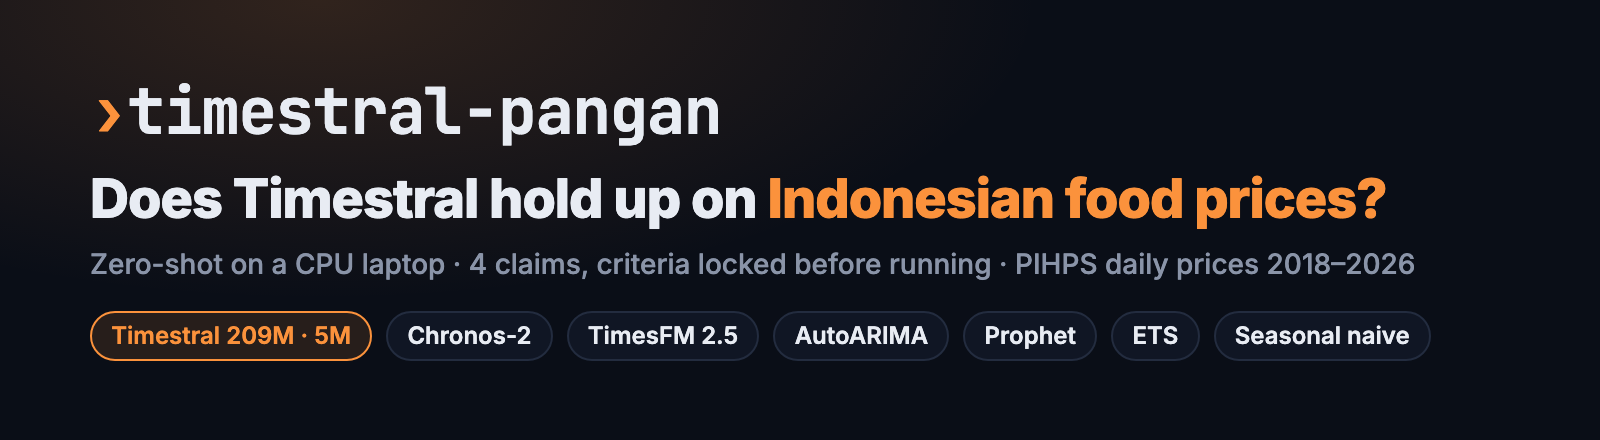
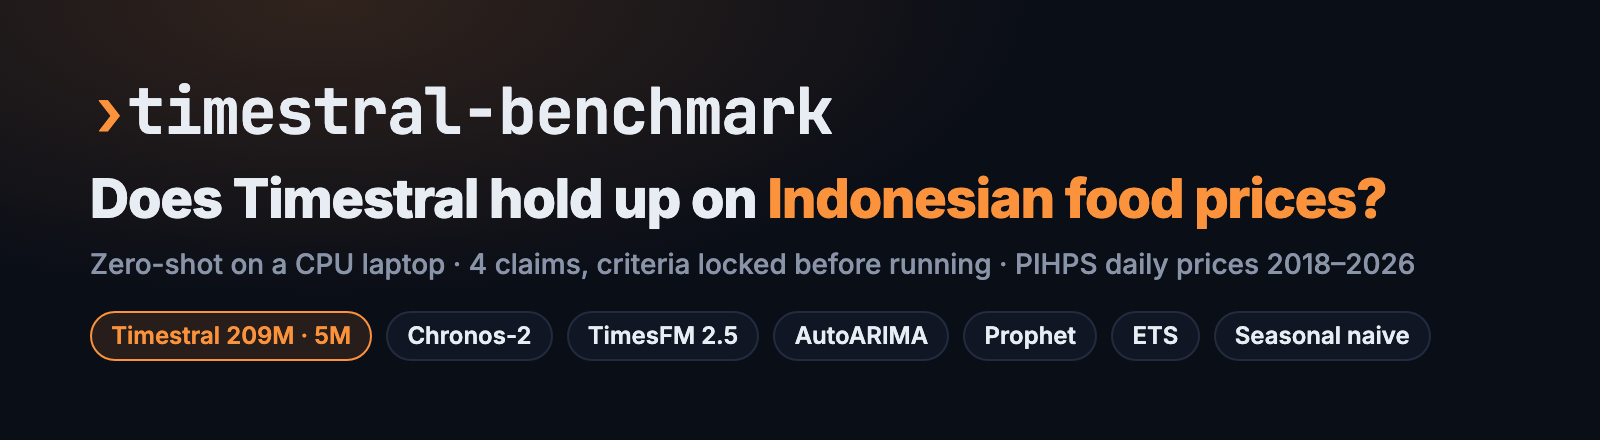
docs: rename project to timestral-benchmark

Changed region(s): [[0.3438, 0.2068, 0.5312, 0.325], [0.3125, 0.2068, 0.3438, 0.2659], [0.3125, 0.2955, 0.3438, 0.325]]

diff --git a/docs/assets/remotion/src/Stills.tsx b/docs/assets/remotion/src/Stills.tsx
@@ -23,7 +23,7 @@ const MODELS = ['Timestral 209M · 5M', 'Chronos-2', 'TimesFM 2.5', 'AutoARIMA',
 const Wordmark: React.FC<{size: number; mode: Mode}> = ({size, mode}) => (
   <div style={{fontFamily: mono, fontWeight: 700, fontSize: size, letterSpacing: -size * 0.02, lineHeight: 1}}>
     <span style={{color: T[mode].accent}}>›</span>
-    <span style={{color: T[mode].text}}>timestral-pangan</span>
+    <span style={{color: T[mode].text}}>timestral-benchmark</span>
   </div>
 );
 

diff --git a/README.md b/README.md
@@ -2,7 +2,7 @@
 
 <picture>
   <source media="(prefers-color-scheme: dark)" srcset="docs/assets/banner-dark.png">
-  <img src="docs/assets/banner-light.png" width="100%" alt="timestral-pangan: does Timestral hold up on Indonesian food prices? Timestral compared with Chronos-2, TimesFM 2.5, AutoARIMA, Prophet, ETS and seasonal naive">
+  <img src="docs/assets/banner-light.png" width="100%" alt="timestral-benchmark: does Timestral hold up on Indonesian food prices? Timestral compared with Chronos-2, TimesFM 2.5, AutoARIMA, Prophet, ETS and seasonal naive">
 </picture>
 
 ### An honest, reproducible benchmark of Timestral against other forecasting approaches on Indonesian daily food prices
@@ -38,7 +38,7 @@ This repository answers that for four staple commodities, without taking sides:
 **1. Install**
 
 ```bash
-git clone https://github.com/anggaralabshq/timestral-pangan.git && cd timestral-pangan
+git clone https://github.com/anggaralabshq/timestral-benchmark.git && cd timestral-benchmark
 uv sync
 ```
 

diff --git a/docs/superpowers/specs/2026-11-09-timestral-pangan-design.md b/docs/superpowers/specs/2026-11-09-timestral-pangan-design.md
@@ -125,7 +125,7 @@ Definisi bersama:
 - Hardware: MacBook **Apple M1, RAM 8 GB**, 8 core. Satu foundation model dimuat dalam satu waktu. Tanpa GPU.
 - Biaya: $0 (RunPod tidak dipakai untuk post ini; saldo $10 disimpan untuk post #2).
 - Python: dikelola `uv` (sudah terpasang, 0.9.15) dengan Python 3.12 (Python sistem 3.14 terlalu baru untuk sebagian dependensi).
-- Repo: GitHub **private** `anggaralabshq/timestral-pangan` (sudah dibuat), dijadikan publik saat post terbit.
+- Repo: GitHub **private** `anggaralabshq/timestral-benchmark` (sudah dibuat; awalnya `timestral-pangan`, di-rename 2026-11-09), dijadikan publik saat post terbit.
 
 ## 11. Keputusan
 
